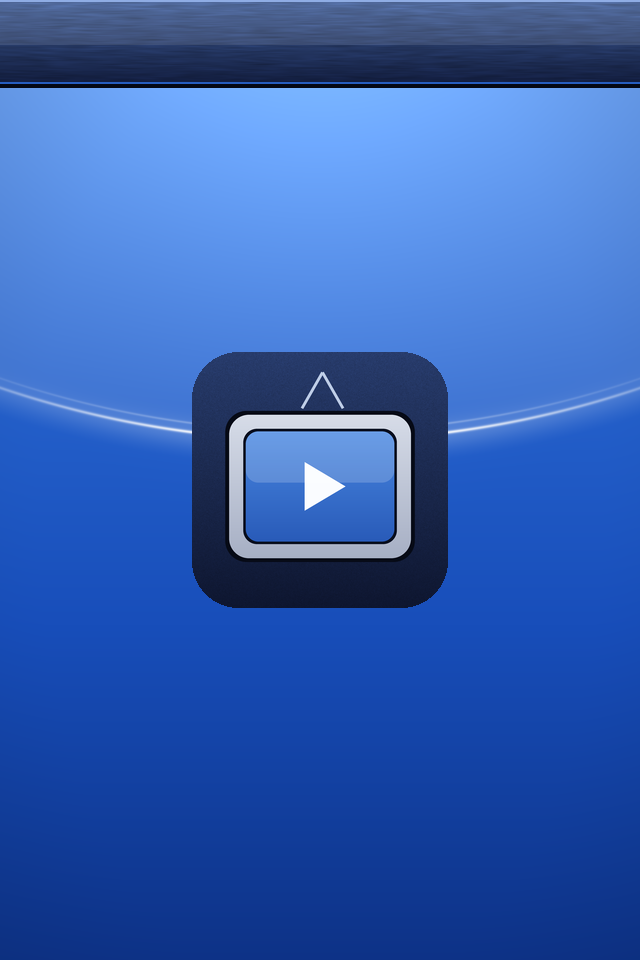
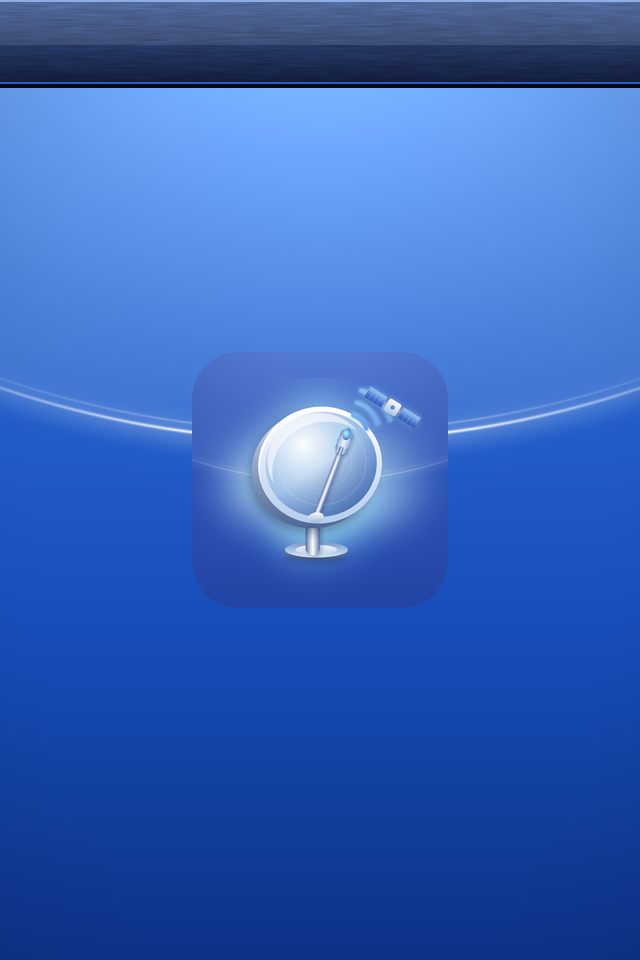
1.4.0: nazwa iSat i nowa ikona (od użytkownika)
Claude-Session: https://claude.ai/code/session_01PihxfTb8dx7aVUpneCJ5Qy

Changed region(s): [[0.2812, 0.3438, 0.7188, 0.6562]]

diff --git a/tools/make_assets.py b/tools/make_assets.py
@@ -218,6 +218,14 @@ def icons_bar():
 
 # ---------- ikona aplikacji i ekrany startowe ----------
 def icon_1024():
+    """Ikona od użytkownika (tools/icon_src.png); gdy jej brak, rysujemy domyślną."""
+    p = os.path.join(os.path.dirname(os.path.abspath(__file__)), 'icon_src.png')
+    if os.path.exists(p):
+        return Image.open(p).convert('RGB').resize((1024, 1024), Image.LANCZOS)
+    return icon_1024_default()
+
+
+def icon_1024_default():
     S = 1024
     n = norm(rng.standard_normal((S, S)))
     t = norm(blur(n, 0.7))

diff --git a/M3UPlaylistsController.m b/M3UPlaylistsController.m
@@ -14,7 +14,7 @@
 - (id)init
 {
     self = [super initWithStyle:UITableViewStylePlain];
-    if (self) self.title = @"Czytnik M3U";
+    if (self) self.title = @"iSat";
     return self;
 }
 

diff --git a/README.md b/README.md
@@ -1,4 +1,4 @@
-# Czytnik M3U
+# iSat (czytnik M3U)
 
 Aplikacja na iOS 6 (jailbreak, armv7) do czytania playlist M3U/M3U8: lista playlist, kanały z grupami,
 wyszukiwarka, ulubione i odtwarzanie HLS przez natywny odtwarzacz.
